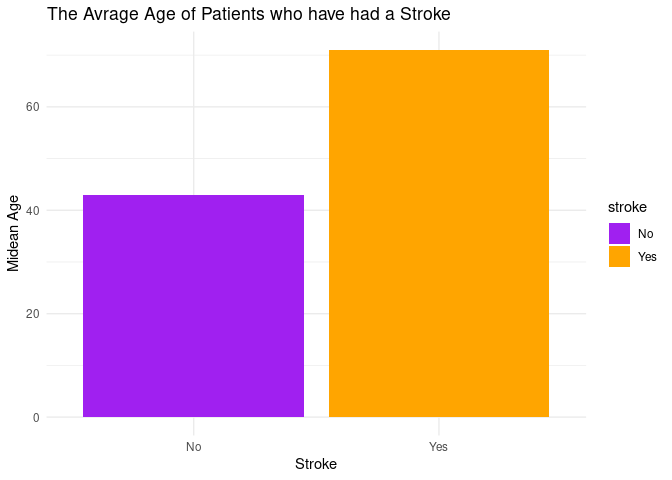
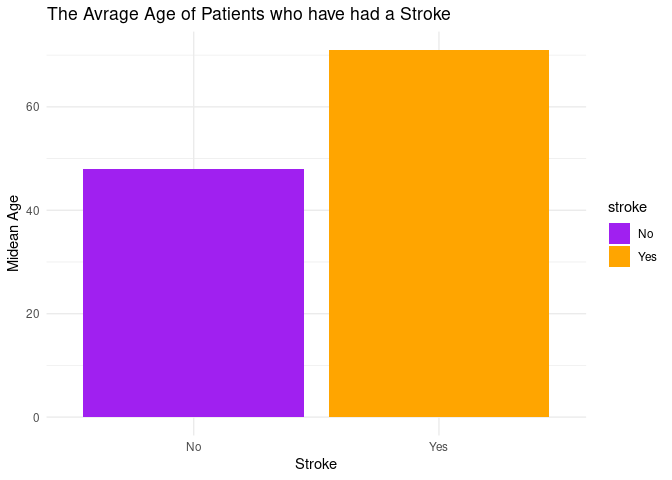
Tidying and presentation work

Changed region(s): [[0.125, 0.3438, 0.4688, 0.4062]]

diff --git a/presentation/presentation.html b/presentation/presentation.html
@@ -1,22 +1,25 @@
 <!DOCTYPE html>
 <html lang="" xml:lang="">
   <head>
-    <title>Modelling of Strokes (temp)</title>
+    <title>Modelling of Strokes</title>
     <meta charset="utf-8" />
     <meta name="author" content="Pipping Hot   Ishan, Anwen and Alex" />
-    <meta name="date" content="2021-11-26" />
+    <meta name="date" content="2021-11-28" />
     <script src="libs/header-attrs-2.11/header-attrs.js"></script>
+    <link href="libs/xaringanExtra-extra-styles-0.2.6/xaringanExtra-extra-styles.css" rel="stylesheet" />
+    <script src="libs/xaringanExtra-progressBar-0.0.1/progress-bar.js"></script>
     <link rel="stylesheet" href="xaringan-themer.css" type="text/css" />
+    <link rel="stylesheet" href="https://cdnjs.cloudflare.com/ajax/libs/animate.css/3.7.0/animate.min.css" type="text/css" />
   </head>
   <body>
     <textarea id="source">
 class: center, middle, inverse, title-slide
 
-# Modelling of Strokes (temp)
+# Modelling of Strokes
 ## With respect to health and lifestyle
 ### Pipping Hot <br> Ishan, Anwen and Alex
 ### University of Edinburgh
-### 2021-11-26
+### 2021-11-28
 
 ---
 
@@ -29,13 +32,13 @@ class: center, middle, inverse, title-slide
 
 
 
-class: center, middle
+class: center, middle, animated, slideInRight
 
 ## Do factors such as age, hypertension and BMI increase the risk of a stroke?
 
 ---
 
-class: center, middle
+class: animated, slideInRight
 
 # Our dataset
 
@@ -54,7 +57,7 @@ glimpse(stroke_risk)
 ## $ heart_disease     &lt;int&gt; 1, 0, 1, 0, 0, 0, 1, 0, 0, 0, 0, 1, 0, 1, 1, 0, 1, 0…
 ## $ ever_married      &lt;chr&gt; "Yes", "Yes", "Yes", "Yes", "Yes", "Yes", "Yes", "No…
 ## $ work_type         &lt;chr&gt; "Private", "Self-employed", "Private", "Private", "S…
-## $ Residence_type    &lt;chr&gt; "Urban", "Rural", "Rural", "Urban", "Rural", "Urban"…
+## $ residence_type    &lt;chr&gt; "Urban", "Rural", "Rural", "Urban", "Rural", "Urban"…
 ## $ avg_glucose_level &lt;dbl&gt; 228.69, 202.21, 105.92, 171.23, 174.12, 186.21, 70.0…
 ## $ bmi               &lt;dbl&gt; 36.6, NA, 32.5, 34.4, 24.0, 29.0, 27.4, 22.8, NA, 24…
 ## $ smoking_status    &lt;chr&gt; "formerly smoked", "never smoked", "never smoked", "…
@@ -63,21 +66,20 @@ glimpse(stroke_risk)
 
 ---
 
-class: center, middle
+class: center, middle, animated, slideInRight
 
 # Introductory plots
 ---
 
-class: center, middle
+class: center, middle, animated, slideInRight
 
 # Plot 1
-
 
 &lt;img src="presentation_files/figure-html/plot-1-1.png" width="80%" /&gt;
 
 ---
 
-class: center, middle
+class: center, middle, animated, slideInRight
 
 # Plot 2
 

diff --git a/presentation/libs/xaringanExtra-progressBar-0.0.1/progress-bar.js b/presentation/libs/xaringanExtra-progressBar-0.0.1/progress-bar.js
@@ -1,0 +1,42 @@
+/* global slideshow */
+(function () {
+  const ready = function (fn) {
+    /* MIT License Copyright (c) 2016 Nuclei */
+    /* https://github.com/nuclei/readyjs */
+    const completed = () => {
+      document.removeEventListener('DOMContentLoaded', completed)
+      window.removeEventListener('load', completed)
+      fn()
+    }
+    if (document.readyState !== 'loading') {
+      setTimeout(fn)
+    } else {
+      document.addEventListener('DOMContentLoaded', completed)
+      window.addEventListener('load', completed)
+    }
+  }
+
+  ready(function () {
+    // set --slide-total CSS property
+    document.body.style.setProperty('--slide-total', slideshow.getSlides().length - 1)
+    document.body.style.setProperty('--slide-previous', 0)
+
+    document
+      .querySelectorAll('.remark-slides-area .remark-slide-content')
+      .forEach(function (slide, idx) {
+        const pb = document.createElement('div')
+        pb.classList = 'xe__progress-bar__container'
+        // set current slide variable directly on the slide's progress bar
+        pb.style.setProperty('--slide-current', idx)
+        const pbFill = document.createElement('div')
+        pbFill.classList = 'xe__progress-bar'
+        pb.appendChild(pbFill)
+        slide.appendChild(pb)
+      })
+
+    // set --slide-previous from slide we're moving away from
+    slideshow.on('beforeHideSlide', function (slide) {
+      document.body.style.setProperty('--slide-previous', slide.getSlideIndex())
+    })
+  })
+})()

diff --git a/presentation/xaringan-themer.css b/presentation/xaringan-themer.css
@@ -75,6 +75,9 @@ h1, h2, h3 {
 .remark-slide-content {
   background-color: var(--background-color);
   font-size: 1rem;
+  background-image: url(fire.gif);
+  background-size: 150px 160px;
+  background-position: top right;
   padding: 16px 64px 16px 64px;
   width: 100%;
   height: 100%;
@@ -137,8 +140,6 @@ a, a > code {
 }
 .title-slide {
   background-color: var(--title-slide-background-color);
-  background-image: url("none");
-  background-size: cover;
 }
 .title-slide .remark-slide-number {
   display: none;
@@ -241,3 +242,11 @@ table.dataTable.hover tbody tr:hover, table.dataTable.display tbody tr:hover {
 }
 
 
+
+
+/* Extra CSS */
+.r.hljs.remark-code {
+  background-color: #000;
+  color: #FFF;
+  font-size: 30px;
+}

diff --git a/presentation/libs/xaringanExtra-extra-styles-0.2.6/xaringanExtra-extra-styles.css b/presentation/libs/xaringanExtra-extra-styles-0.2.6/xaringanExtra-extra-styles.css
@@ -1,0 +1,31 @@
+/* Line Hover Indicator */
+.remark-code-line:hover {
+  font-weight: bold;
+  opacity: 1 !important;
+}
+
+.remark-code-line:hover:before {
+  content: "\25B6";
+  color: #6d7e8a;
+  position: absolute;
+  transform: translateX(-1.2em);
+  animation: hover 0.66s alternate 8 cubic-bezier(0.445, 0.05, 0.55, 0.95);
+}
+
+@keyframes hover {
+  0% {
+    transform: translateX(-1.2em);
+  }
+  100% {
+    transform: translateX(-0.8em);
+  }
+}
+/* Mute highlighted line */
+.remark-code-has-line-highlighted .remark-code-line:not(.remark-code-line-highlighted) {
+  opacity: 0.4;
+}
+
+/* Override highlight color */
+.remark-code-line-highlighted {
+  background-color: inherit;
+}

diff --git a/extra/testing.md b/extra/testing.md
@@ -5,6 +5,7 @@ Piping Hot
 ``` r
 library(tidyverse)
 library(broom)
+library(janitor)
 ```
 
 ``` {proposal-stuff}
@@ -27,16 +28,19 @@ stroke_risk %>%
 ``` r
 stroke_risk <- read.csv(here::here("data/healthcare-dataset-stroke-data.csv"))
 stroke_risk <- stroke_risk %>%
+  filter(age >= 16) %>%
   mutate(
     #hypertension = if_else(hypertension == 1, TRUE, FALSE),
     #heart_disease = if_else(heart_disease == 1, TRUE, FALSE),
     #stroke = if_else(stroke == 1, TRUE, FALSE),
-    bmi = if_else(bmi == "N/A", NA_real_, as.numeric(bmi))
-  )
+    bmi = if_else(bmi == "N/A", NA_real_, as.numeric(bmi)),
+    work_type = if_else(age == 16 & work_type == "children", "Never_worked", work_type)
+  ) %>%
+clean_names()
 glimpse(stroke_risk)
 ```
 
-    ## Rows: 5,110
+    ## Rows: 4,366
     ## Columns: 12
     ## $ id                <int> 9046, 51676, 31112, 60182, 1665, 56669, 53882, 10434…
     ## $ gender            <chr> "Male", "Female", "Male", "Female", "Female", "Male"…
@@ -45,7 +49,7 @@ glimpse(stroke_risk)
     ## $ heart_disease     <int> 1, 0, 1, 0, 0, 0, 1, 0, 0, 0, 0, 1, 0, 1, 1, 0, 1, 0…
     ## $ ever_married      <chr> "Yes", "Yes", "Yes", "Yes", "Yes", "Yes", "Yes", "No…
     ## $ work_type         <chr> "Private", "Self-employed", "Private", "Private", "S…
-    ## $ Residence_type    <chr> "Urban", "Rural", "Rural", "Urban", "Rural", "Urban"…
+    ## $ residence_type    <chr> "Urban", "Rural", "Rural", "Urban", "Rural", "Urban"…
     ## $ avg_glucose_level <dbl> 228.69, 202.21, 105.92, 171.23, 174.12, 186.21, 70.0…
     ## $ bmi               <dbl> 36.6, NA, 32.5, 34.4, 24.0, 29.0, 27.4, 22.8, NA, 24…
     ## $ smoking_status    <chr> "formerly smoked", "never smoked", "never smoked", "…
@@ -79,22 +83,7 @@ median_age_stroke %>%
   geom_col() +
   scale_fill_manual(values = c("Purple", "Orange")) +
   labs(x = "Stroke", y = "Midean Age", title = "The Avrage Age of Patients who have had a Stroke") +
-  theme(legend.position="none") +
   theme_minimal() 
 ```
 
 ![](testing_files/figure-gfm/photographer-1.png)<!-- -->
-
-``` r
-stroke_risk <- read.csv(here::here("data/healthcare-dataset-stroke-data.csv"))
-stroke_risk_cleaned <- stroke_risk %>%
-  mutate(
-    #hypertension = if_else(hypertension == 1, TRUE, FALSE),
-    #heart_disease = if_else(heart_disease == 1, TRUE, FALSE),
-    #stroke = if_else(stroke == 1, TRUE, FALSE),
-    bmi = if_else(bmi == "N/A", NA_real_, as.numeric(bmi))
-  )
-```
-
-    ## Warning in replace_with(out, !condition, false, fmt_args(~false), glue("length
-    ## of {fmt_args(~condition)}")): NAs introduced by coercion
